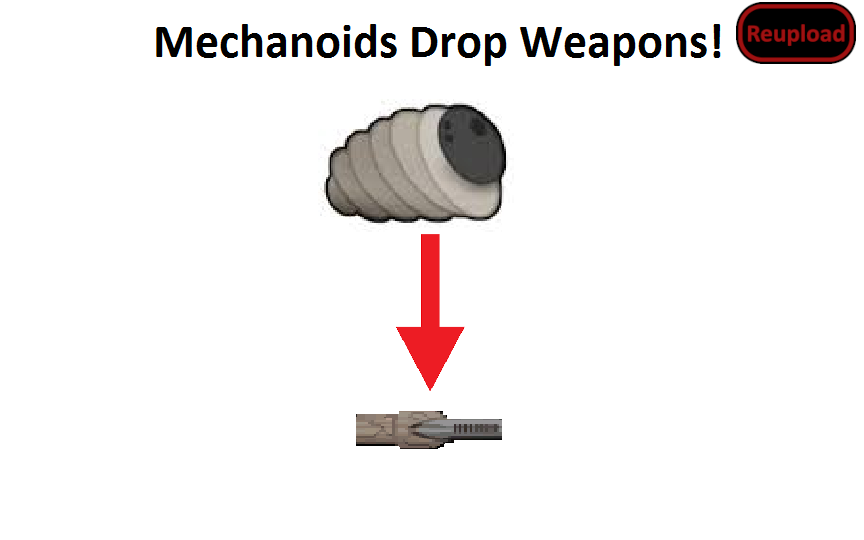
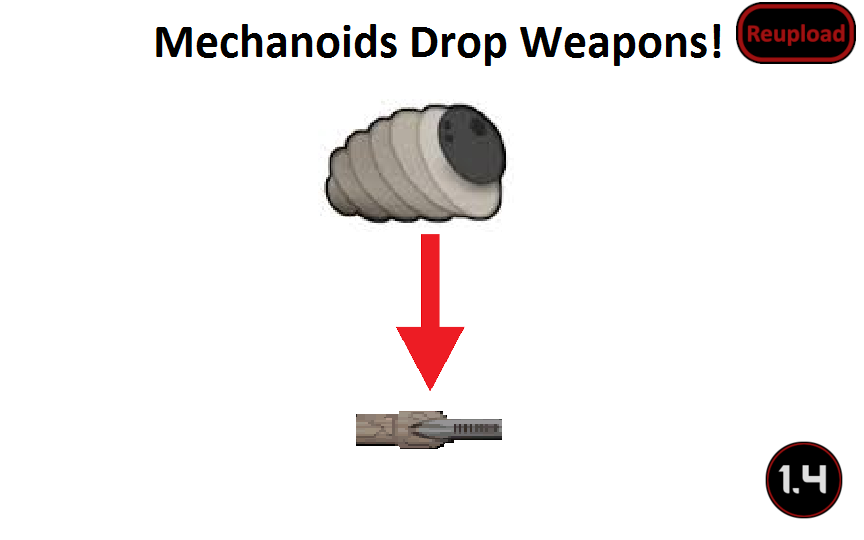
Fixed Diabolus not droppping their weapon

Changed region(s): [[0.875, 0.8, 1.0, 0.9778]]

diff --git a/README.md b/README.md
@@ -6,6 +6,7 @@ Update of HammerheadCows mod
 https://steamcommunity.com/sharedfiles/filedetails/?id=941995644
 
 - Added support for https://steamcommunity.com/workshop/filedetails/?id=2329011599]Vanilla Factions Expanded - Mechanoids
+- Added support for Biotech mechs
 
 ![Image](https://i.imgur.com/pufA0kM.png)
 
@@ -33,5 +34,5 @@ Fixed: .50 cent bug, guns should be worth more now
 
 
 
+https://steamcommunity.com/sharedfiles/filedetails/changelog/2059921296]![Image](https://img.shields.io/github/v/release/emipa606/MechanoidsDropGuns?label=latest%20version&style=plastic&color=9f1111&labelColor=black)
 
-https://steamcommunity.com/sharedfiles/filedetails/changelog/2059921296]Last updated 2023-06-14
